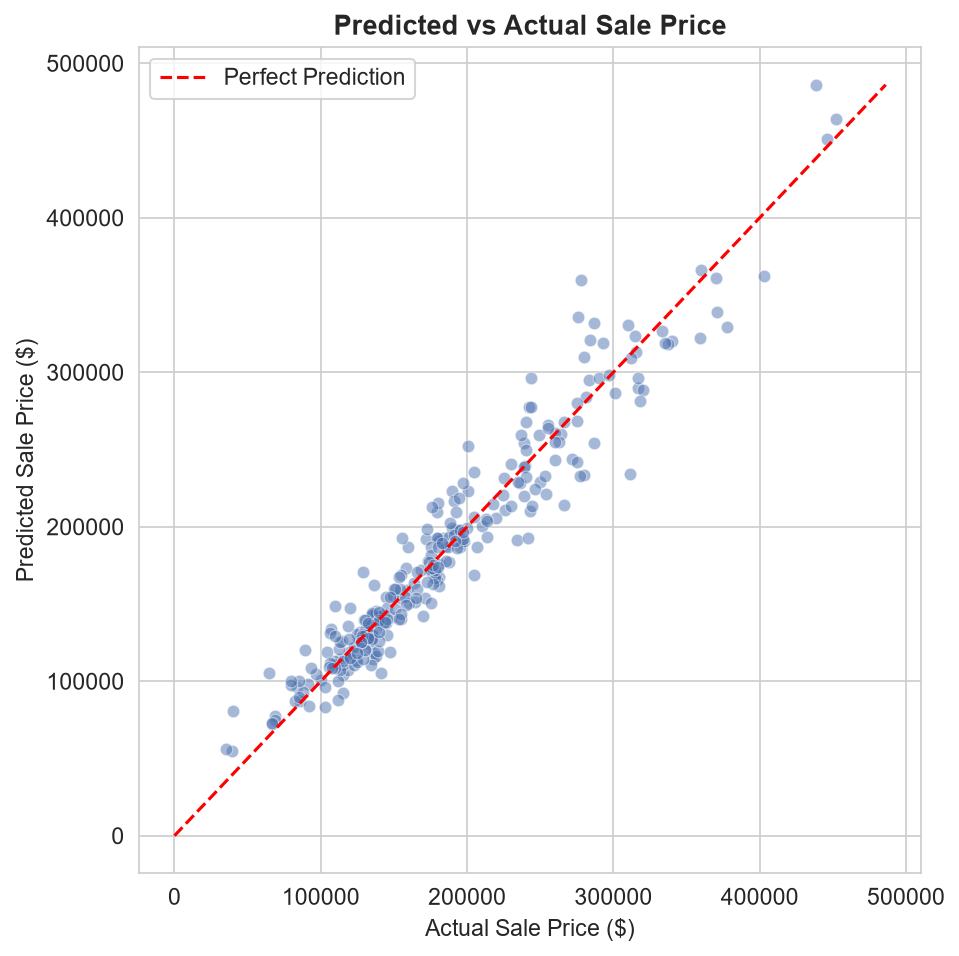
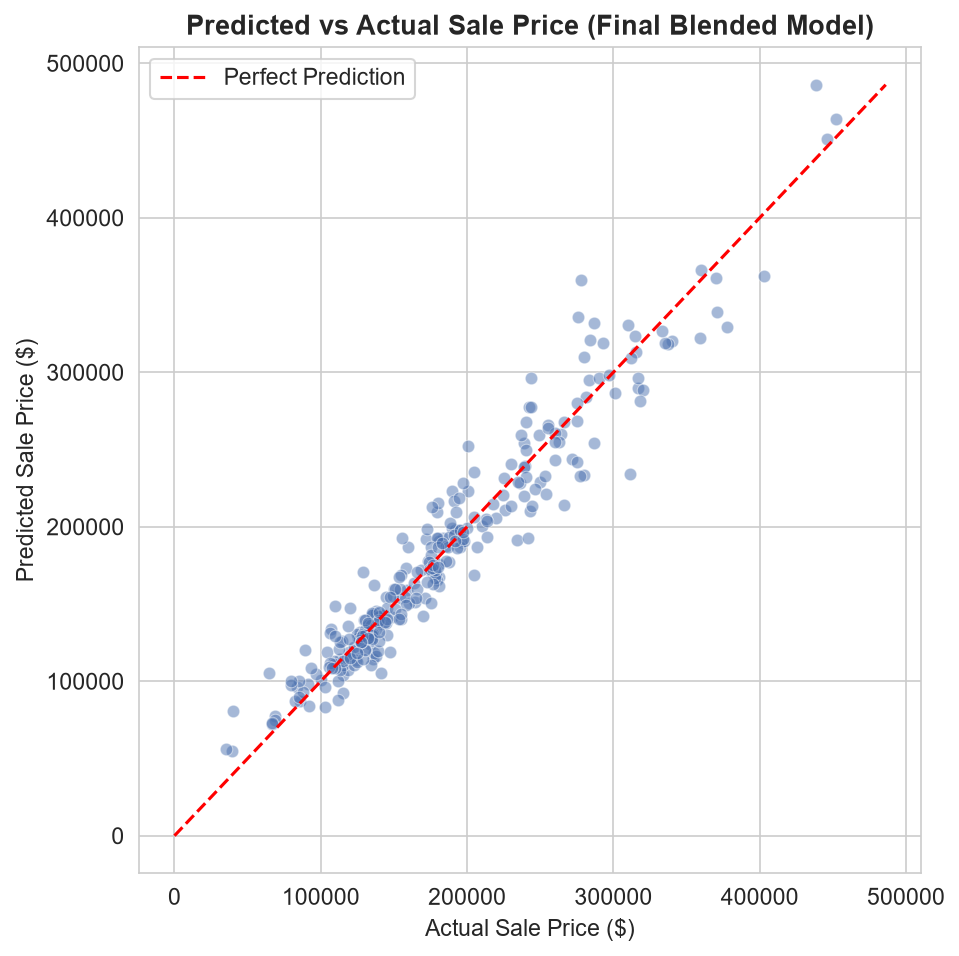
Complete README with full P2 methodology, results, and visualizations

Changed region(s): [[0.1814, 0.0, 0.9072, 0.0607]]

diff --git a/README.md b/README.md
@@ -4,7 +4,7 @@
 This repository contains solutions for two problems as part of the Payoda ML Engineer take-home assignment:
 
 1. **P1 — Spaceship Titanic** (Mandatory) — Binary Classification
-2. **P2 — House Prices** (Chosen second problem) — Regression *(in progress)*
+2. **P2 — House Prices** (Chosen second problem) — Regression 
 
 ---
 
@@ -108,5 +108,78 @@ Used Claude (Anthropic) for step-by-step guidance on pipeline structure, explain
 
 ---
 
-## P2 — House Prices
-*(To be added)*
+## P2 — House Prices: Advanced Regression Techniques
+
+### Problem
+Predict the sale price (`SalePrice`) of residential homes in Ames, Iowa, using 79 explanatory variables covering nearly every aspect of a house (size, quality, location, age, amenities). Evaluated on RMSE of log-transformed SalePrice.
+
+Competition link: https://www.kaggle.com/competitions/house-prices-advanced-regression-techniques
+
+### Approach
+
+**1. Target Analysis**
+`SalePrice` was heavily right-skewed (skewness 1.88) — a log transform (`log1p`) reduced this to near-symmetric (0.12), matching the competition's own evaluation metric.
+
+**2. Missing Value Handling — Structural vs Genuine**
+Unlike P1, most missingness here is **structural**, not random. Cross-referenced `data_description.txt` and confirmed that for 15 columns (PoolQC, Fence, GarageType, BsmtQual, etc.), `NA` explicitly means "feature absent" (e.g., no pool, no garage), not unknown data — these were filled with a `"None"` category rather than statistically imputed. Remaining genuine gaps: `LotFrontage` (filled via neighborhood median — location-aware), `GarageYrBlt`/`MasVnrArea` (filled 0, consistent with "no garage/veneer"), `Electrical` (mode).
+
+**3. Outlier Removal**
+Identified and removed 2 well-documented dataset anomalies (houses with `GrLivArea` > 4000 sqft but `SalePrice` < $300k). Confirmed via correlation analysis these defied the expected size-price relationship. Removing them reduced CV RMSE from 0.1427 to 0.1131 and cut fold-to-fold variance roughly 3x.
+
+**4. Feature Engineering**
+- `TotalSF` (basement + 1st + 2nd floor sqft) — correlation 0.78 with SalePrice, nearly matching OverallQual
+- `TotalBathrooms` (weighted full + half baths) — correlation 0.63
+- `HouseAge`, `YearsSinceRemodel` — both show expected negative correlation with price
+
+**5. Encoding**
+- 10 quality-rating columns (ExterQual, BsmtQual, KitchenQual, etc.) — **ordinally encoded** (None=0 → Excellent=5), preserving their genuine rank order rather than losing it to one-hot encoding
+- 33 remaining categorical columns — one-hot encoded; fixed a 16-column train/test mismatch caused by rare categories
+
+**6. Modeling**
+Compared Ridge, Lasso, and XGBoost via 5-fold cross-validation on the log-transformed target:
+
+| Model | CV Mean RMSE (log) |
+|---|---|
+| **Ridge (scaled)** | **0.1130** |
+| Lasso (scaled) | 0.1140 |
+| XGBoost (tuned) | 0.1151 |
+
+Notably, regularized linear models slightly outperformed tuned XGBoost — a real, non-obvious result given this dataset's high feature-to-row ratio (266 features, ~1460 rows), where regularization matters more than tree-based non-linearity. Final model: a 70/30 weighted blend of Ridge and XGBoost, chosen for robustness across validation splits.
+
+**Final validation metrics:**
+
+| Metric | Value |
+|---|---|
+| Validation RMSLE (log scale) | 0.1159 |
+| MAE (in $) | $13,849 |
+| R² | 0.9203 |
+
+**Top 5 features (XGBoost importance):** ExterQual, OverallQual, TotalSF (engineered), GarageCars, BsmtQual.
+
+### Key Visualizations
+
+**Residual analysis — errors are roughly balanced around zero, no severe systematic bias:**
+
+![Residual Plot](p2-house-prices/plot1_residuals.png)
+
+**Feature importance — quality ratings and engineered TotalSF dominate:**
+
+![Feature Importance](p2-house-prices/plot2_feature_importance.png)
+
+### How to Run
+
+```bash
+# From the ML-Assignment root folder (same environment as P1)
+cd p2-house-prices
+# Open p2_house_prices.ipynb in VS Code / Jupyter and run all cells
+```
+
+Requires `train.csv`, `test.csv`, `sample_submission.csv`, `data_description.txt` from the [Kaggle data page](https://www.kaggle.com/competitions/house-prices-advanced-regression-techniques/data) placed inside `p2-house-prices/`.
+
+### Artifacts
+- Notebook: `p2-house-prices/p2_house_prices.ipynb`
+- Submission: `p2-house-prices/submission.csv`
+- Plots: `p2-house-prices/plot1_residuals.png`, `plot2_feature_importance.png`
+
+### AI Usage Disclosure
+Same as P1 — used Claude for step-by-step guidance, explanations, and debugging; all code run, verified, and understood by the candidate.
